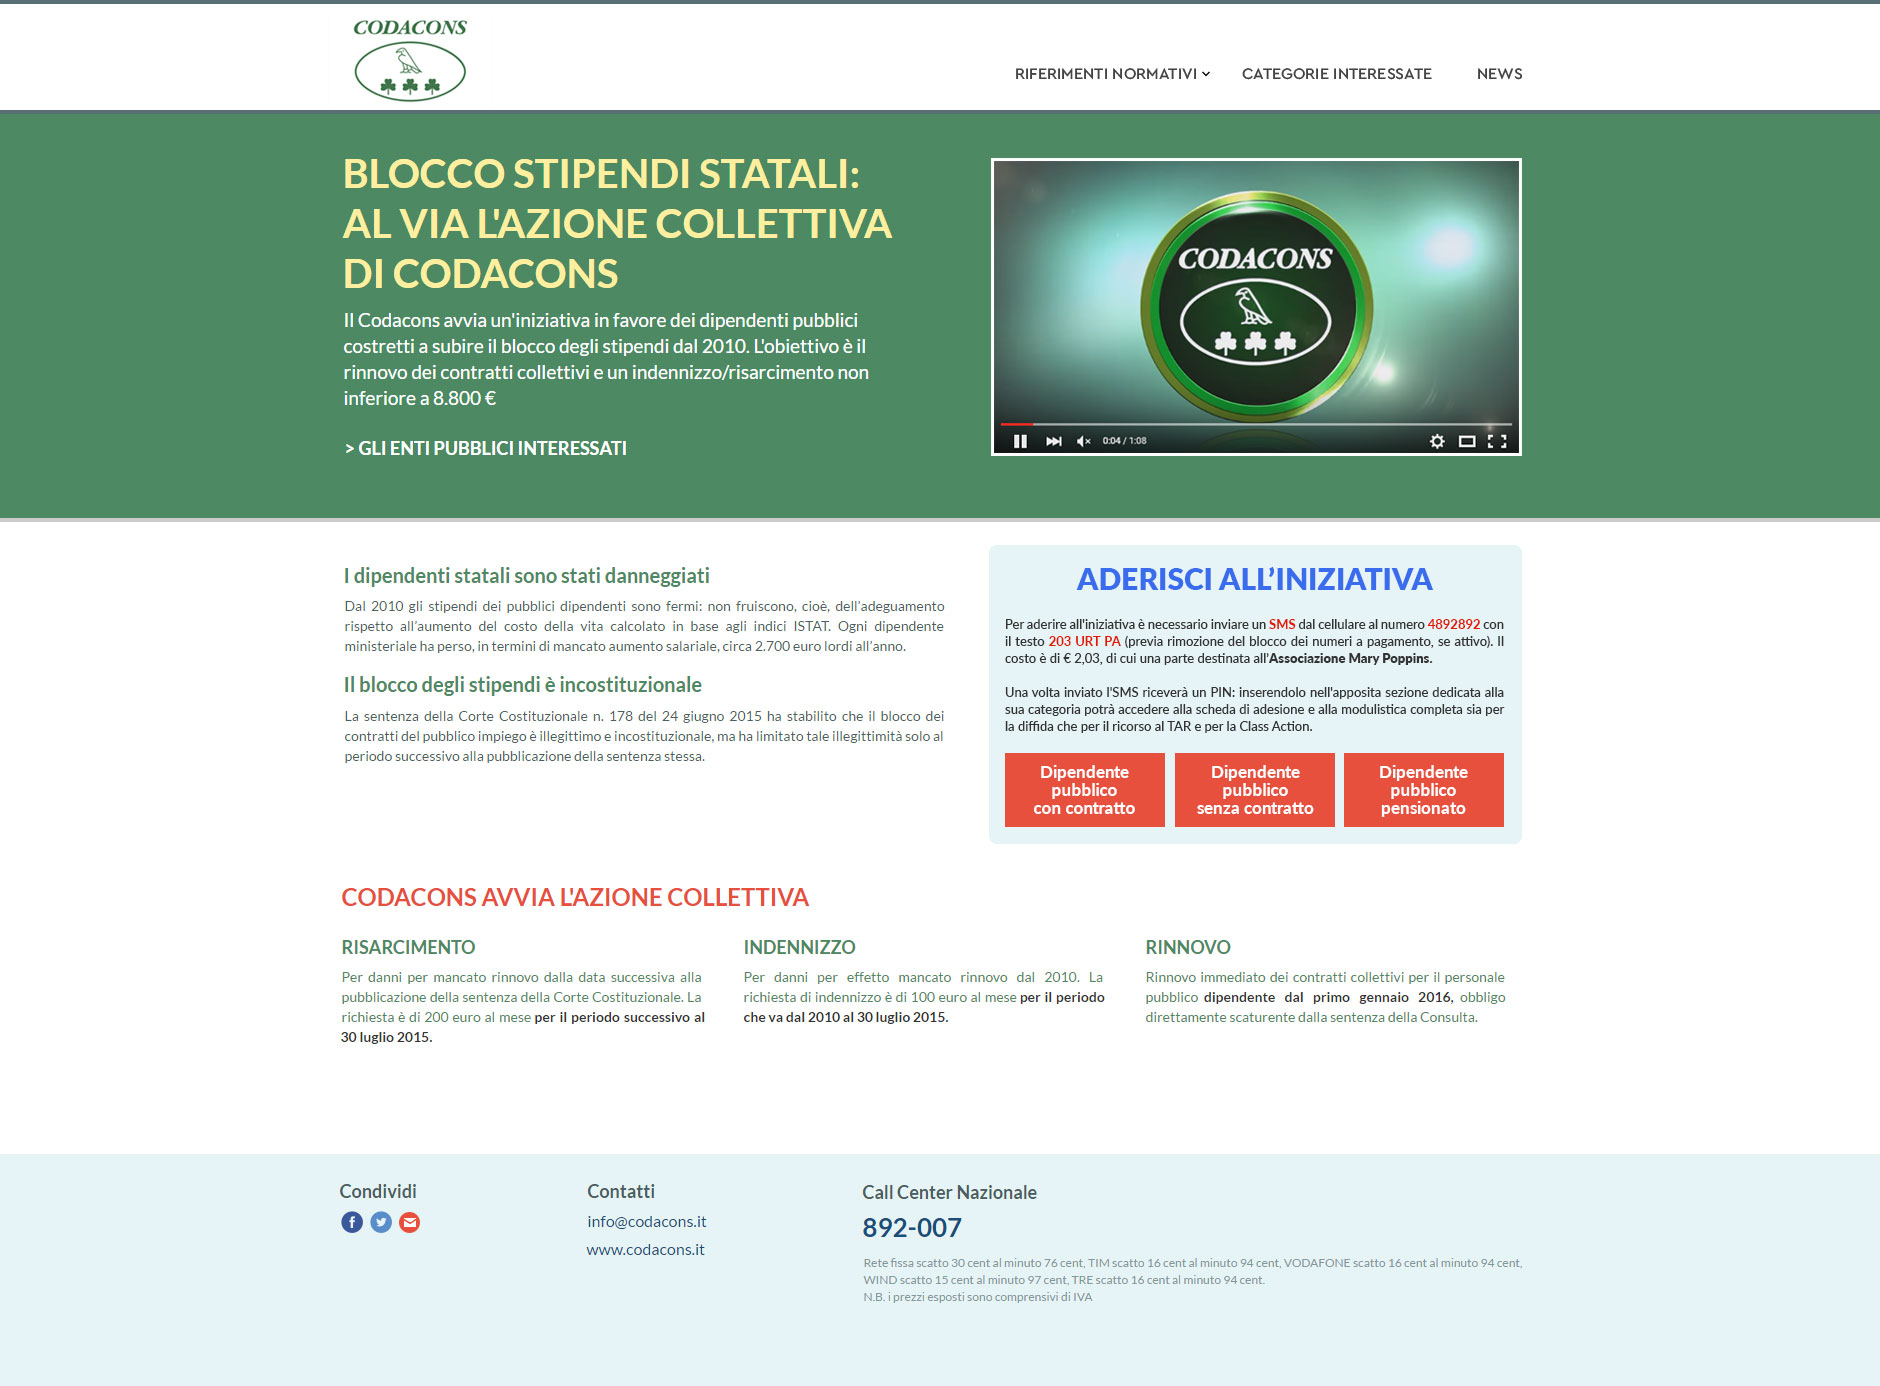
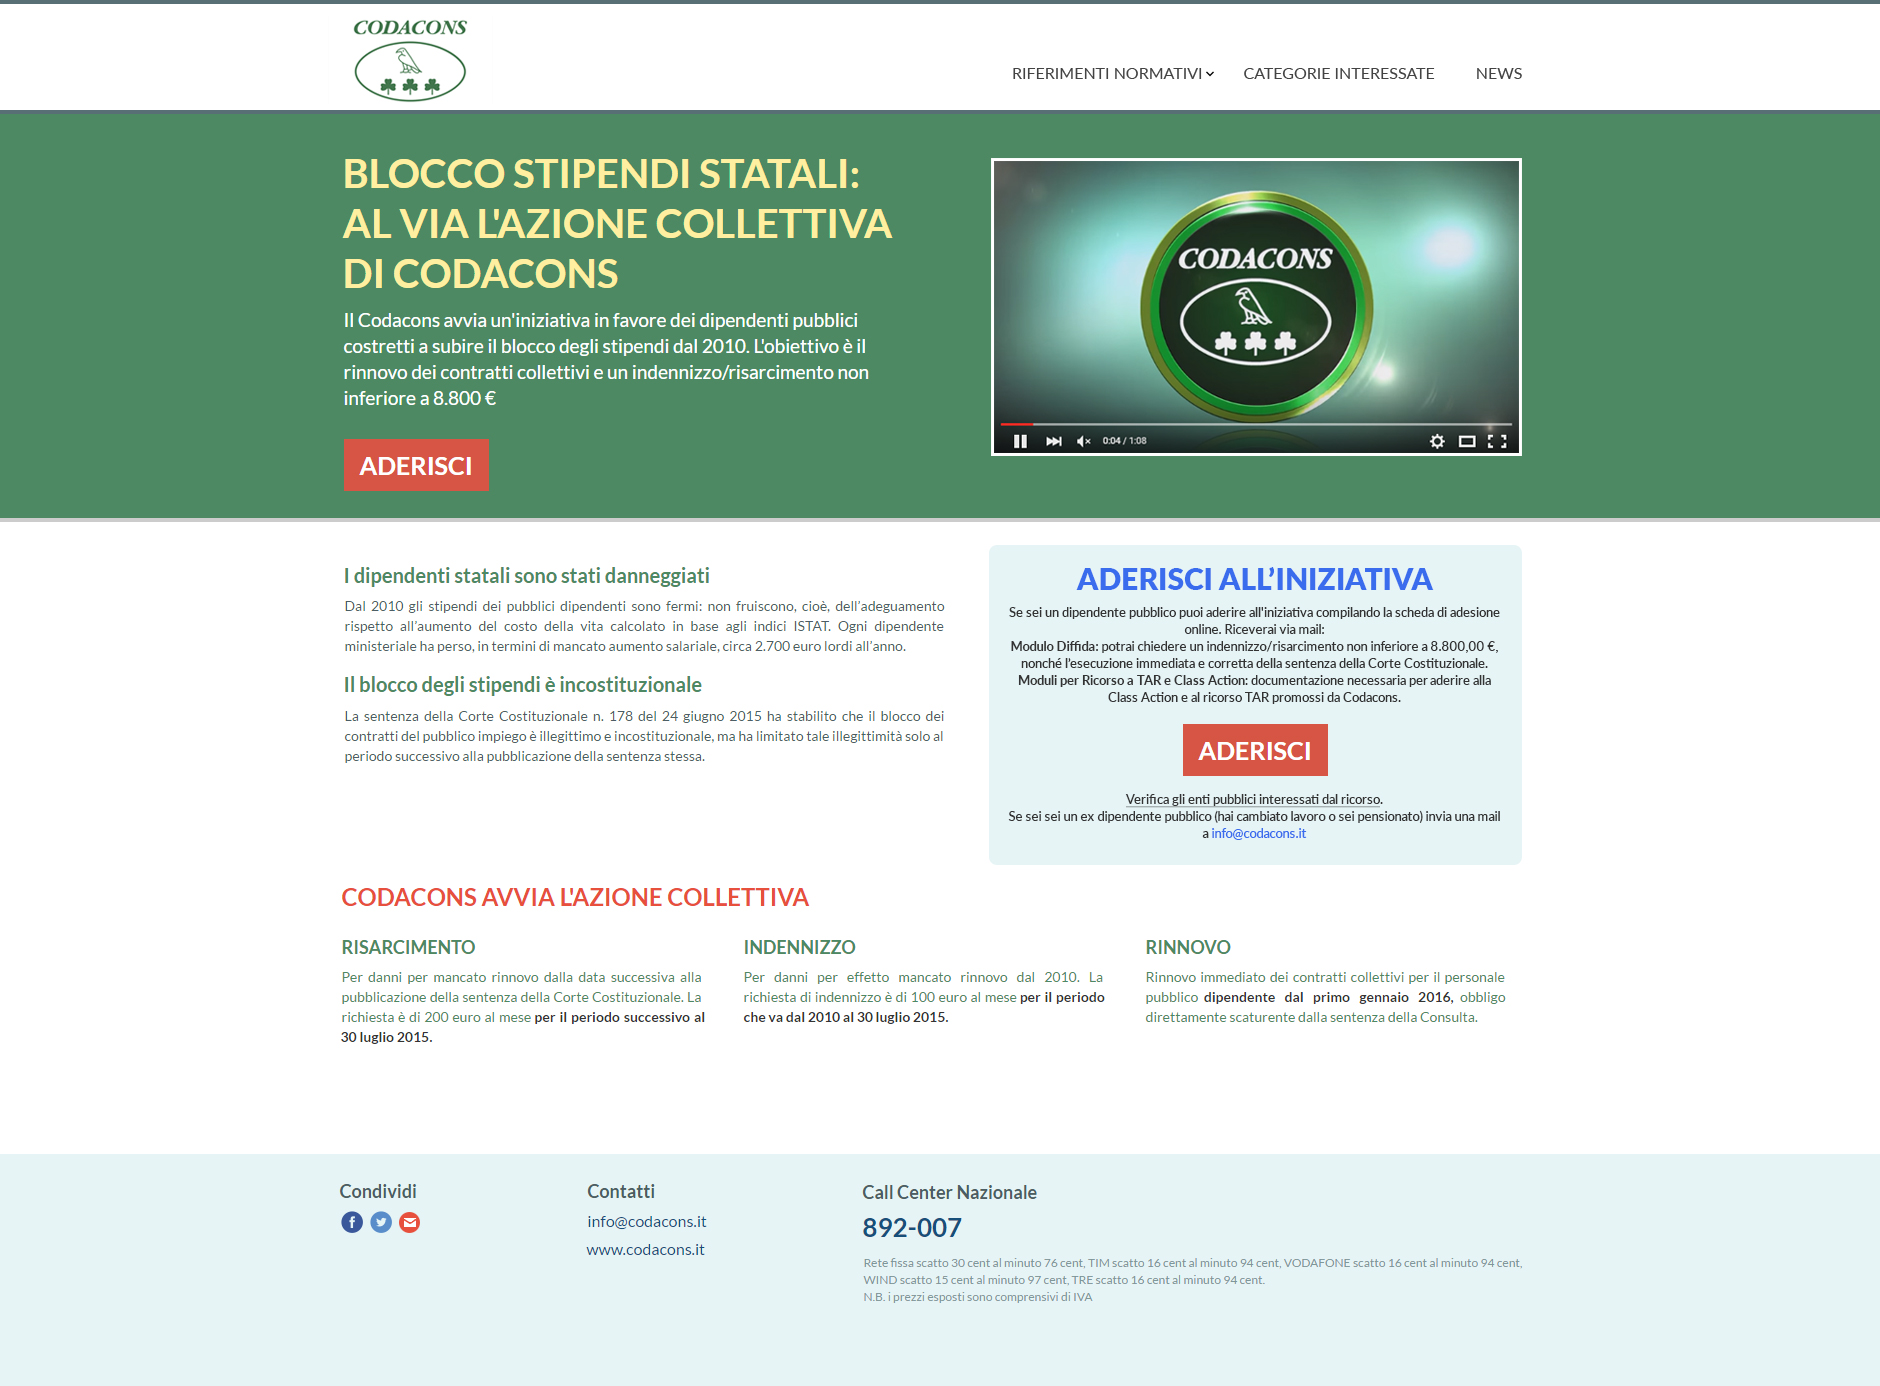
completato primo blocco main

diff --git a/index.html b/index.html
@@ -41,7 +41,7 @@
 			  
 			  <ul class="nav navbar-nav navbar-right">				
 				<li class="dropdown">
-				  <a href="#" class="dropdown-toggle" data-toggle="dropdown" role="button" aria-haspopup="true" aria-expanded="false">RIFERIMENTI NORMATIVI <i class="fa fa-angle-down"></i></a>
+				  <a href="#" class="dropdown-toggle" data-toggle="dropdown" role="button" aria-haspopup="true" aria-expanded="false">RIFERIMENTI NORMATIVI &nbsp;<i class="fa fa-angle-down"></i></a>
 				  <ul class="dropdown-menu">
 					<li><a href="#">Action</a></li>
 					<li><a href="#">Another action</a></li>
@@ -60,25 +60,103 @@
 	
 	<div id="banner">
 		<div class="container">
-			<div class="col-sm-6">
-				<h1>BLOCCO STIPENDI STATALI: AL VIA L'AZIONE COLLETTIVA DI CODACONS</h1>
-				<p>Il Codacons avvia un'iniziativa in favore dei dipendenti pubblici costretti a subire il blocco degli stipendi dal 2010. L'obiettivo è il rinnovo dei contratti collettivi e un indennizzo/risarcimento non inferiore a 8.800 &euro;</p>
-				<!-- <p><i class="fa fa-angle-right"></i> GLI ENTI PUBBLICI INTERESSATI</p> 
-					PULSANTE ADERISCI QUI
-				-->
-			</div>
-			<div class="col-sm-5 col-sm-offset-1">
-				<div class="embed-responsive embed-responsive-16by9" id="banner_video">
-					<iframe width="560" height="315" src="https://www.youtube.com/embed/RrE_1vAg19Q" frameborder="0"></iframe>
+			<div class="row">
+				<div class="col-md-6" id="banner_left">
+					<h1>BLOCCO STIPENDI STATALI:<br>AL VIA L'AZIONE COLLETTIVA DI CODACONS</h1>
+					<p>Il Codacons avvia un'iniziativa in favore dei dipendenti pubblici costretti a subire il blocco degli stipendi dal 2010. L'obiettivo è il rinnovo dei contratti collettivi e un indennizzo/risarcimento non inferiore a 8.800 &euro;</p>
+					<br>
+					<button class="btn btn-aderisci"><strong>ADERISCI</strong></button>
+				</div>
+				<div class="col-md-6">
+					<div class="embed-responsive embed-responsive-16by9" id="banner_video">
+						<iframe width="560" height="315" src="https://www.youtube.com/embed/RrE_1vAg19Q" frameborder="0"></iframe>
+					</div>
 				</div>
 			</div>
 		</div>
 	</div>
 	
+	<div class="row spacer-20 hidden-xs"></div>
+	<div class="row spacer-10 hidden-xs"></div>
+	
 	<div id="main">
+		<div class="container">
+			<div class="row">
+				<div class="col-sm-6" id="main_left">
+					<p class="lead"><strong>I dipendenti statali sono danneggiati</strong></p>
+					<p class="small">Dal 2010 gli stipendi dei pubblici dipendenti sono fermi: non fruiscono, cioè, dell'adeguamento rispetto all'aumento del costo della vita calcolato in base agli indici ISTAT. Ogni dipendente ministeriale ha perso, in termini di mancato aumento salariale, circa 2.700 euro lordi l'anno.</p>
+					<br>
+					<p class="lead"><strong>Il blocco degli stipendi è incostituzionale</strong></p>
+					<p class="small">La sentenza della Corte Costituzionale n. 178 del 24 giugno 2015 ha stabilito che il blocco dei contratti del pubblico impiego è illegittimo e incostituzionale, ma ha limitato tale illeggittimità solo al periodo successivo alla pubblicazione della sentenza stessa.</p>
+				</div>
+				<div class="col-sm-6">
+					<div class="alert alert-aderisci text-center" role="alert">
+						<h2>ADERISCI ALL'INIZIATIVA</h2>
+						<p class="small">Se sei un dipendente pubblico puoi aderire all'iniziativa compilando la scheda di adesione online. Riceverai via mail:<br>
+										 Modulo Diffida - potrai chiedere un indennizzo/risarcimento non inferiore a 8.800,00 &euro;, nonché l’esecuzione immediata e corretta della sentenza della Corte Costituzionale.<br>
+									     Moduli per Ricorso a TAR e Class Action - documentazione necessaria per aderire alla<br>Class Action e al ricorso TAR promossi da Codacons.<br>
+										 <button class="btn btn-aderisci"><strong>ADERISCI</strong></button>
+										 Verifica gli enti pubblici interessati dal ricorso. (link)<br>
+										 Se sei sei un ex dipendente pubblico (hai cambiato lavoro o sei pensionato) invia una mail a <a href="mailto:info@codacons.it">info@codacons.it</a></p>
+					</div>
+				</div>
+			</div>
+			
+			<div class="row">
+				<div class="col-xs-12">
+					codacons avvia...
+				</div>
+				<div class="col-sm-4">risarcimento</div>
+				<div class="col-sm-4">indennizzo</div>
+				<div class="col-sm-4">rinnovo</div>
+			</div>
+		</div>
 	
 	</div>
 	
+	<!--
+	<footer>
+		<div class="row-fluid clearfix">
+			<div class="span1-5">
+				<h4>Subscribe to Our Newsletter</h4>
+				<p class="newsletter_desc">Get coupons and savings delivered to your inbox every week!</p>
+				<form method="POST">
+				<input type="text" />
+				<p style="margin-top:14px"><a href="#" class="footer_btn">Get Newsletter</a></p>
+				</form>
+			</div>
+			<div class="span1-5">
+				<h4>About Us</h4>
+				<p><a href="#">Our History</a></p>
+				<p><a href="#">Careers</a></p>
+				<p><a href="#">Downloads</a></p>
+			</div>
+			<div class="span1-5">
+				<h4>Blog</h4>
+				<p class="blog_date">October 18th, 2012</p>
+				<p><a href="#">Top 10 Productivity Tips</a></p>
+				<p class="blog_date">October 11th, 2012</p>
+				<p><a href="#">8 Reasons to Smile Today</a></p>
+				<br />
+				<a href="#" class="read-more">Read More</a>
+			</div>
+			<div class="span1-5">
+				<h4>Get Help</h4>
+				<p><a href="#">Product Name for Mac</a></p>
+				<p><a href="#">Product Namefor Android</a></p>
+				<p><a href="#">Product Name for Windows</a></p>			
+				<p><a href="#">FAQs</a></p>
+				<p><a href="#">Knowledgebase</a></p>
+			</div>
+			<div class="span1-5 contact-us">
+				<h4>Get In Touch</h4>
+				<p>2100 East Street<br />City, State 12345</p>
+				<p><a href="mailto:info@yoursite.com">info@yoursite.com</a></p>
+				<p>(555) 121&minus;1212</p>
+			</div>
+		</div>
+	</footer>
+	-->	
 	
 	<script src="https://code.jquery.com/jquery-2.2.2.min.js" integrity="sha256-36cp2Co+/62rEAAYHLmRCPIych47CvdM+uTBJwSzWjI=" crossorigin="anonymous"></script>
 	<script src="https://maxcdn.bootstrapcdn.com/bootstrap/3.3.6/js/bootstrap.min.js" integrity="sha384-0mSbJDEHialfmuBBQP6A4Qrprq5OVfW37PRR3j5ELqxss1yVqOtnepnHVP9aJ7xS" crossorigin="anonymous"></script>	

diff --git a/css/custom.css b/css/custom.css
@@ -1,8 +1,20 @@
 /* generici */
 
 p {
+	font-family: 'Lato', sans-serif;
+	font-size:18px;
+	line-height:26px;
 	text-align: justify;
 }
+
+.spacer-10 {
+	margin: 5px 0;
+}
+
+.spacer-20 {
+	margin: 10px 0;
+}
+
 
 /* menu */
 
@@ -37,27 +49,129 @@ header {
 #banner {
 	background:#4d8963;
 	border-bottom:4px solid #ccc;
-	padding:50px 0px;
+	padding:35px 0px;
 }
 
 #banner h1{
-	color:#fcf3c5;
+	color:#ffefa0;
 	font-family: 'Lato', sans-serif;
-	font-size:38px;
+	font-size:34px;
 	font-weight:bold;
-	line-height:50px;
+	line-height:48px;
 	margin-top:0px;
-	margin-bottom:30px;
+	margin-bottom:10px;
 }
 
 #banner p {
-	color:white;
-	font-family: 'Lato', sans-serif;
-	font-size:18px;
-	line-height:26px;
+	color:white;	
+}
+
+#banner_left {
+	padding-right: 70px;
 }
 
 #banner_video {
 	padding-top: 7px;
 	border: 2px solid #fff;
+}
+
+/* main */
+
+#main_left {
+	padding-top: 20px;
+}
+
+#main p {
+	color: #4d8963;
+}
+
+#main p.small {
+	font-size: 13px;
+	line-height: 21px;
+	color: #333;
+}
+
+.alert-aderisci {
+	background-color: #e6f4f6;
+	border-color: transparent;
+}
+
+.alert-aderisci h2 {
+	color: #4c78ee;
+	font-weight: 700;
+	margin-top: 0px;
+}
+
+.alert-aderisci p {
+	text-align: center;
+}
+
+.alert-aderisci a {
+	color: #4c78ee;
+}
+
+.alert-aderisci .btn-aderisci {
+	margin: 10px auto;
+}
+
+.btn-aderisci {
+  display: block;
+  border-radius: 0;
+  color: #fff;
+  background-color: #e7503d;
+  border-color: #e7503d;
+  padding: 10px 18px;
+  font-size: 22px;
+}
+.btn-aderisci:focus,
+.btn-aderisci.focus {
+  color: #333;
+  background-color: #e7503d;
+  border-color: #e7503d;
+}
+.btn-aderisci:hover {
+  color: #fff;
+  background-color: #ed1c24;
+  border-color: #ed1c24;
+}
+.btn-aderisci:active,
+.btn-aderisci.active,
+.open > .dropdown-toggle.btn-aderisci {
+  color: #fff;
+  background-color: #ed1c24;
+  border-color: #ed1c24;
+}
+.btn-aderisci:active:hover,
+.btn-aderisci.active:hover,
+.open > .dropdown-toggle.btn-aderisci:hover,
+.btn-aderisci:active:focus,
+.btn-aderisci.active:focus,
+.open > .dropdown-toggle.btn-aderisci:focus,
+.btn-aderisci:active.focus,
+.btn-aderisci.active.focus,
+.open > .dropdown-toggle.btn-aderisci.focus {
+  color: #fff;
+  background-color: #ed1c24;
+  border-color: #ed1c24;
+}
+.btn-aderisci:active,
+.btn-aderisci.active,
+.open > .dropdown-toggle.btn-aderisci {
+  background-image: none;
+}
+.btn-aderisci.disabled:hover,
+.btn-aderisci[disabled]:hover,
+fieldset[disabled] .btn-aderisci:hover,
+.btn-aderisci.disabled:focus,
+.btn-aderisci[disabled]:focus,
+fieldset[disabled] .btn-aderisci:focus,
+.btn-aderisci.disabled.focus,
+.btn-aderisci[disabled].focus,
+fieldset[disabled] .btn-aderisci.focus {
+  background-color: #fff;
+  border-color: #ccc;
+}
+.btn-aderisci .badge {
+  color: #fff;
+  background-color: #333;
 }
